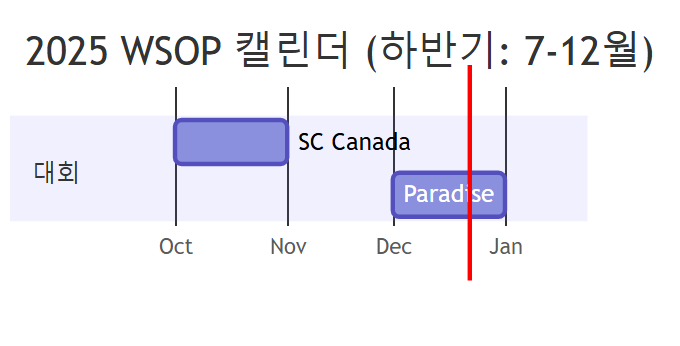
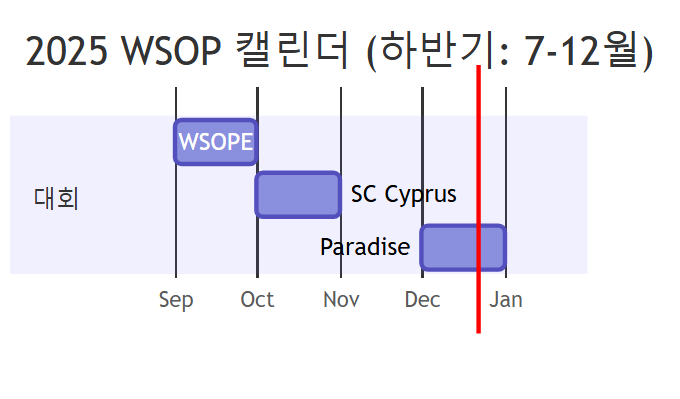
docs(prd): update 2025 calendar with correct schedule 📅
상반기:
- 3월: SC Cyprus
- 5월: MPP Cyprus (신규)
- 6-7월: WSOP Vegas (2개월)

하반기:
- 9월: WSOPE (신규)
- 10월: SC Cyprus (SC Canada 대체)
- 12월: Paradise (Bahama)

🤖 Generated with [Claude Code](https://claude.com/claude-code)

diff --git a/docs/diagrams/04a-calendar-h1.html b/docs/diagrams/04a-calendar-h1.html
@@ -26,8 +26,8 @@ gantt
 
     section 대회
     SC Cyprus    :2025-03, 1M
-    WSOP Europe  :2025-04, 1M
-    WSOP Vegas   :2025-05, 3M
+    MPP Cyprus   :2025-05, 1M
+    WSOP Vegas   :2025-06, 2M
     </div>
     <script>
         mermaid.initialize({ startOnLoad: true, theme: 'default' });

diff --git a/docs/diagrams/04b-calendar-h2.html b/docs/diagrams/04b-calendar-h2.html
@@ -25,7 +25,8 @@ gantt
     axisFormat %b
 
     section 대회
-    SC Canada    :2025-10, 1M
+    WSOPE        :2025-09, 1M
+    SC Cyprus    :2025-10, 1M
     Paradise     :2025-12, 1M
     </div>
     <script>

diff --git a/tasks/prds/0010-prd-wsoptv/03-content-strategy.md b/tasks/prds/0010-prd-wsoptv/03-content-strategy.md
@@ -223,22 +223,23 @@ WSOP Europe {YEAR} - Bracelet Events
 
 **상반기 (1-6월)**
 
-<img src="https://lh3.googleusercontent.com/d/1lJrewAM9qUhB75ogWEKgZ23GY3nLmUWR" width="400">
+<img src="https://lh3.googleusercontent.com/d/1fWawC1lJGZKSbCyQ4Mb5vNWXGZtnIO0Y" width="400">
 
 | 월 | 대회 | 지역 |
 |----|------|------|
 | **3월** | WSOP Super Circuit Cyprus | Cyprus |
-| **4월** | WSOP Europe | EU |
-| **5-7월** | WSOP Las Vegas | LV |
+| **5월** | MPP Cyprus | Cyprus |
+| **6-7월** | WSOP Las Vegas | LV |
 
 **하반기 (7-12월)**
 
-<img src="https://lh3.googleusercontent.com/d/10NrgoJ1x8V2oW_vo1ujM2sGNN3f4vVQN" width="400">
+<img src="https://lh3.googleusercontent.com/d/1wgsjfg1RFp7vbwFB7ZBshIbOlF5k5-BK" width="400">
 
 | 월 | 대회 | 지역 |
 |----|------|------|
-| **10월** | WSOP Super Circuit Canada | Circuit |
-| **12월** | WSOP Paradise | Cyprus |
+| **9월** | WSOP Europe | EU |
+| **10월** | WSOP Super Circuit Cyprus | Cyprus |
+| **12월** | WSOP Paradise | Bahama |
 
 ### 4.2 미래 일정 (글로벌 확장)
 
